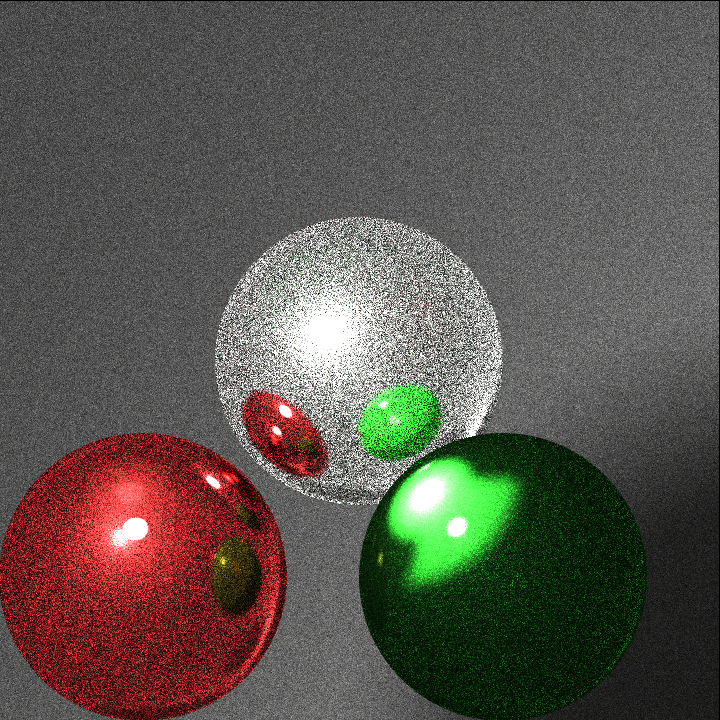
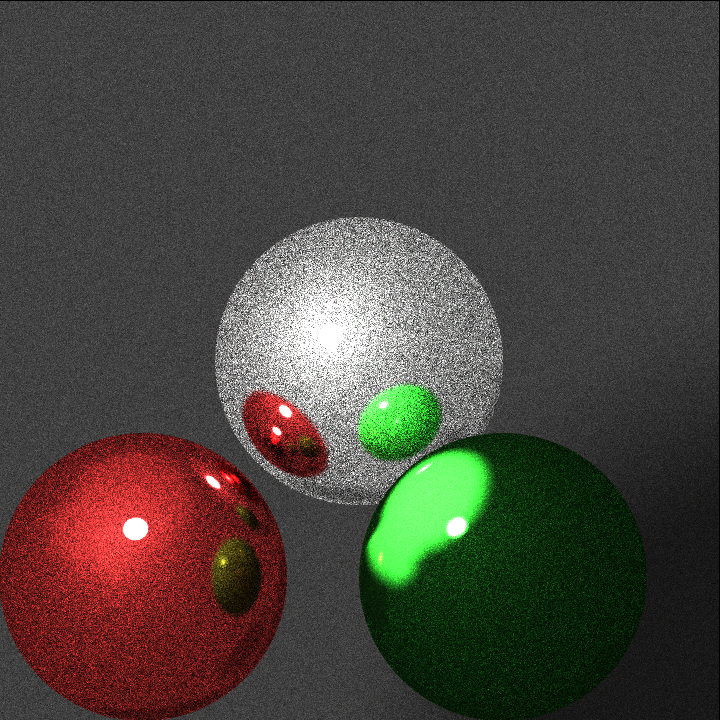
better hemisphere sampeling

diff --git a/Raytracer/src/main.cpp b/Raytracer/src/main.cpp
@@ -68,6 +68,18 @@ Norm3 hemispheresample(Norm3 normal, double aroundX, double aroundZ) noexcept {
 	return normal.rotate(x, aroundX).rotate(normal, aroundZ);
 }
 
+Norm3 hemispheresample2(Norm3 normal, double u, double v) noexcept {
+	const auto xy = Norm3::orthogonal_from_z(normal);
+	const auto x = xy.first;
+	const auto y = xy.second;
+
+	auto theta = 2 * constants::pi * u;
+	auto radiusSquared = v;
+	auto radius = sqrt(radiusSquared);
+	auto pos = Vec3(cos(theta) * radius, sin(theta) * radius, sqrt(1 - radiusSquared));
+	return pos.transform( { x,y,normal }).norm();
+}
+
 Color radiance(const Ray& r, const Scene& scene, std::mt19937& rnd, const RenderParams& params, unsigned int depth) {
 	if (depth > params.max_depth)
 		return {};
@@ -98,9 +110,13 @@ Color radiance(const Ray& r, const Scene& scene, std::mt19937& rnd, const Render
 		const auto maxVSamples = depth < 1 ? params.numVSamples : 1;
 		for (auto vSample = 0; vSample < maxVSamples; ++vSample) {
 			for (auto uSample = 0; uSample < maxUSamples; ++uSample) {
-				const double aroundZ = 2 * constants::pi * (uSample + uni(rnd)) / maxUSamples;
+				/*const double aroundZ = 2 * constants::pi * (uSample + uni(rnd)) / maxUSamples;
 				const double aroundX = 0.5 * constants::pi * (vSample + uni(rnd)) / maxVSamples;
-				const Norm3 outbound = hemispheresample(nearest.normal, aroundX, aroundZ);
+				const Norm3 outbound = hemispheresample(nearest.normal, aroundX, aroundZ);*/
+				const double u = (uSample + uni(rnd)) / maxUSamples;
+				const double v = (vSample + uni(rnd)) / maxVSamples;
+				const Norm3 outbound = hemispheresample2(nearest.normal, u, v);
+
 				result += radiance(
 					Ray(nearest.hit_position, outbound),
 					scene, rnd, params, ++depth);
@@ -156,7 +172,7 @@ int main(int argc, char* argv[]) {
 		,.numVSamples{4}
 		,.preview{false}
 		,.max_depth{5}
-		,.samplesPerPixel{500}
+		,.samplesPerPixel{1000}
 	};
 	const CameraParams camParams{};
 
@@ -168,9 +184,9 @@ int main(int argc, char* argv[]) {
 		Ray r{};
 		for (unsigned int s = 0; s < renderParams.samplesPerPixel; ++s) {
 			r = Ray({ (x + uni(rng)) * x_rezi,(y + uni(rng)) * y_rezi,0.05 }, Norm3::zAxis());
-			c += radiance(r, scene, rng, renderParams, 0);
+			c += radiance(r, scene, rng, renderParams, 0) / renderParams.samplesPerPixel;
 		}
-		c = clamp(c / renderParams.samplesPerPixel, 0.0, 1.0);
+		c = clamp(c , 0.0, 1.0);
 		return (counter++, c);};
 
 	Color c{};
@@ -187,7 +203,7 @@ int main(int argc, char* argv[]) {
 		std::vector<std::future<Color>> results(maxx*maxy);
 		assert(("array of pixels and array of futures are not of same length!",pixels.size() == results.size()));
 		std::random_device r_device;
-		unsigned int seed = r_device();
+		const unsigned int seed = r_device();
 		for (std::size_t y = 0; y < maxy; ++y) {
 			for (std::size_t x = 0; x < maxx; ++x) {
 				results[y * maxx + x] = std::async(std::launch::async, job, x, y, std::mt19937(seed + y * maxx + x));

diff --git a/Raytracer/util/Vec3.h b/Raytracer/util/Vec3.h
@@ -2,6 +2,7 @@
 #include <cmath>
 #include <cassert>
 #include "Constants.h"
+#include <array>
 
 class Norm3;
 
@@ -38,6 +39,8 @@ public:
 		return Vec3(x_ / d, y_ / d, z_ / d);
 	}
 	[[nodiscard]] constexpr Vec3 operator-() { return Vec3(-x_, -y_, -z_); }
+
+	[[nodiscard]] constexpr Vec3 transform(const std::array<Norm3, 3> basis);
 
 	[[nodiscard]] constexpr double x() const noexcept { return x_; }
 	[[nodiscard]] constexpr double y() const noexcept { return y_; }

diff --git a/Raytracer/util/Vec3.impl.h b/Raytracer/util/Vec3.impl.h
@@ -18,3 +18,7 @@ constexpr Vec3 Vec3::cross(const Norm3& v) const noexcept {
 
     return cross(Vec3(v));
 }
+
+constexpr Vec3 Vec3::transform(const std::array<Norm3, 3> basis) {
+    return basis[0] * x_ + basis[1] * y_ + basis[2] * z_;
+}
